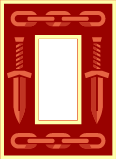
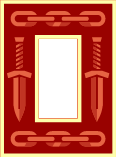
fixed visual border bug

diff --git a/src/main/resources/sh/shinterface/configscreen.css b/src/main/resources/sh/shinterface/configscreen.css
@@ -13,8 +13,8 @@
 
     -fx-border-image-source: url("images/border/liberal_border.png");
 
-    -fx-border-image-slice: 78 40 77 40;
-    -fx-border-image-width: 78 40 77 40;
+    -fx-border-image-slice: 79 40 77 40;
+    -fx-border-image-width: 79 40 77 40;
     -fx-border-image-repeat: round round;
     -fx-border-image-insets: 10;
 }
@@ -30,8 +30,8 @@
 
     -fx-border-image-source: url("images/border/fascist_border.png");
 
-    -fx-border-image-slice: 78 40 77 40;
-    -fx-border-image-width: 78 40 77 40;
+    -fx-border-image-slice: 79 40 77 40;
+    -fx-border-image-width: 79 40 77 40;
     -fx-border-image-repeat: round round;
     -fx-border-image-insets: 10;
 }
